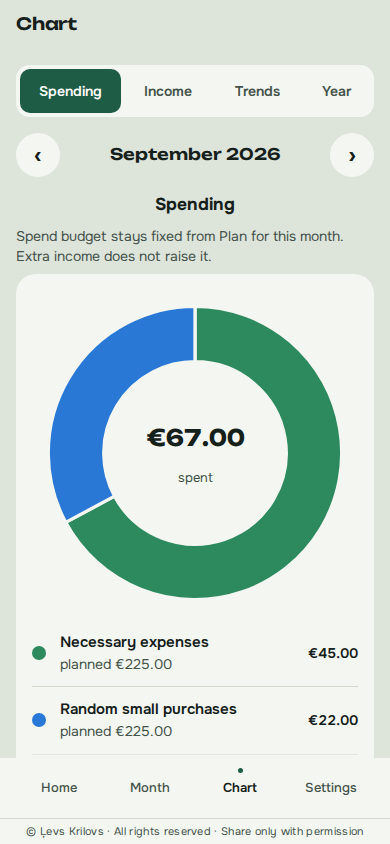
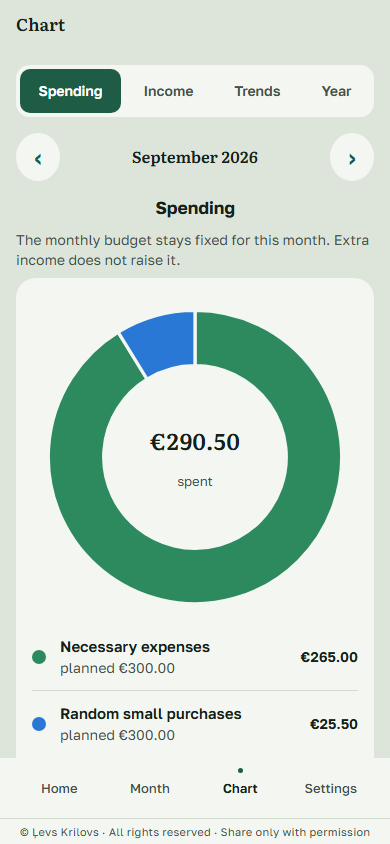
C-013: Retake the user guide screenshots of version 3.0

diff --git a/scripts/capture_guide_screens.js b/scripts/capture_guide_screens.js
@@ -2,131 +2,85 @@ import { chromium } from 'playwright';
 import { mkdirSync } from 'node:fs';
 import { dirname, join } from 'node:path';
 import { fileURLToPath } from 'node:url';
+import { defaultData, SCHEMA_VERSION } from '../src/model.js';
 
 const root = join(dirname(fileURLToPath(import.meta.url)), '..');
 const out = join(root, 'docs', 'guide-assets');
 mkdirSync(out, { recursive: true });
 
 const key = 'my-expenses-v1';
-const data = {
-    version: 2,
-    settings: {
-        userName: 'Alex',
-        monthlyBudgetCents: 100000,
-        usualMonthlyIncomeCents: 200000,
-        setupComplete: true,
-        lastBackupISO: null,
-        othersSeeded: true,
-    },
-    categories: [
-        {
-            id: 'necessary',
-            name: 'Necessary expenses',
-            pinned: false,
-            percent: 0,
-            limitMode: 'percent',
-            limitCents: 0,
-            system: false,
-            subcategories: [
-                { id: 'rent', name: 'Rent/mortgage' },
-                { id: 'groceries', name: 'Groceries' },
-            ],
-        },
-        {
-            id: 'subscriptions',
-            name: 'Subscriptions',
-            pinned: false,
-            percent: 0,
-            limitMode: 'percent',
-            limitCents: 0,
-            system: false,
-            subcategories: [],
-        },
-        {
-            id: 'random',
-            name: 'Random small purchases',
-            pinned: false,
-            percent: 0,
-            limitMode: 'percent',
-            limitCents: 0,
-            system: false,
-            subcategories: [{ id: 'shopping', name: 'Shopping' }],
-        },
-        {
-            id: 'savings',
-            name: 'Savings',
-            pinned: true,
-            percent: 10,
-            limitMode: 'percent',
-            limitCents: 10000,
-            system: false,
-            subcategories: [],
-        },
-        {
-            id: 'others',
-            name: 'Others',
-            pinned: false,
-            percent: 0,
-            limitMode: 'percent',
-            limitCents: 0,
-            system: false,
-            subcategories: [],
-        },
-        {
-            id: 'uncategorised',
-            name: 'Uncategorised',
-            pinned: true,
-            percent: 0,
-            system: true,
-            subcategories: [],
-        },
-    ],
-    incomeCategories: [
-        { id: 'salary', name: 'Salary' },
-        { id: 'income-other', name: 'Other' },
-    ],
-    expenses: [
-        {
-            id: 'e1',
-            categoryId: 'necessary',
-            subcategoryId: 'groceries',
-            amountCents: 4500,
-            note: 'Market',
-            date: '2026-09-02',
-        },
-        {
-            id: 'e2',
-            categoryId: 'random',
-            subcategoryId: 'shopping',
-            amountCents: 2200,
-            note: 'Soap',
-            date: '2026-09-03',
-        },
-    ],
-    incomes: [
-        {
-            id: 'i1',
-            incomeCategoryId: 'salary',
-            amountCents: 50000,
-            note: '',
-            date: '2026-09-01',
-        },
-    ],
-    subscriptions: [{ id: 's1', name: 'Streaming', amountCents: 999, dayOfMonth: 28 }],
-    monthPlans: {},
-};
+const preUpdateKey = `my-expenses-before-v${SCHEMA_VERSION}`;
+const NOW = new Date('2026-09-24T12:00:00Z');
+
+function expense(id, categoryId, subcategoryId, amountCents, note, date, extra = {}) {
+    return {
+        id, categoryId, subcategoryId, amountCents, note, date,
+        currency: 'EUR', originalAmountCents: amountCents, refund: false,
+        importId: '', bankRef: '', fingerprint: '', goalId: '', ...extra,
+    };
+}
+
+function income(id, incomeCategoryId, amountCents, note, date) {
+    return {
+        id, incomeCategoryId, amountCents, note, date,
+        currency: 'EUR', originalAmountCents: amountCents,
+        importId: '', bankRef: '', fingerprint: '', sourceId: '',
+    };
+}
+
+// Sample data: the clock is fixed at 24 Sep 2026, Money now starts at 200.00 on 1 Sep.
+const data = defaultData();
+Object.assign(data.settings, {
+    userName: 'Alex',
+    monthlyBudgetCents: 100000,
+    usualMonthlyIncomeCents: 200000,
+    setupComplete: true,
+    lastBackupISO: '2026-09-20',
+    balanceStart: { cents: 20000, date: '2026-09-01' },
+});
+const savings = data.categories.find((category) => category.id === 'savings');
+Object.assign(savings, { pinned: true, percent: 10, limitMode: 'percent', limitCents: 10000 });
+
+data.expenses.push(
+    expense('e1', 'necessary', 'groceries', 4500, 'Market', '2026-09-02'),
+    expense('e2', 'random', 'shopping', 2200, 'Soap', '2026-09-03'),
+    expense('e3', 'necessary', 'rent', 22000, 'Rent', '2026-09-05'),
+    expense('e4', 'random', 'eating-out', 1850, 'Lunch', '2026-09-12'),
+    expense('e5', 'random', 'shopping', 1500, 'Returned shoes', '2026-09-14', { refund: true }),
+);
+// Salary has no September income tied to it, so its payday reminder is due on the 24th.
+data.incomeSources.push(
+    { id: 'src1', name: 'Salary', incomeCategoryId: 'salary', expectedCents: 200000, dayOfMonth: 20, startDate: '', skippedMonths: [] },
+    { id: 'src2', name: 'Side job', incomeCategoryId: 'salary', expectedCents: 30000, dayOfMonth: 28, startDate: '', skippedMonths: [] },
+);
+data.incomes.push(
+    income('i1', 'income-other', 5000, 'Gift', '2026-09-08'),
+    income('i2', 'income-other', 30000, 'Freelance', '2026-09-10'),
+);
+data.subscriptions.push({ id: 's1', name: 'Streaming', amountCents: 999, dayOfMonth: 28, skippedMonths: [] });
 
 // Earlier months, a template and a goal so Trends, Quick add and Goals have content.
 for (let back = 1; back <= 6; back += 1) {
     const month = String(9 - back).padStart(2, '0');
     data.expenses.push(
-        { id: `h${back}a`, categoryId: 'necessary', subcategoryId: 'groceries', amountCents: 18000 + back * 1700, note: 'Groceries', date: `2026-${month}-10` },
-        { id: `h${back}b`, categoryId: 'random', subcategoryId: 'eating-out', amountCents: 4200 + back * 900, note: 'Cafe', date: `2026-${month}-18` },
+        expense(`h${back}a`, 'necessary', 'groceries', 18000 + back * 1700, 'Groceries', `2026-${month}-10`),
+        expense(`h${back}b`, 'random', 'eating-out', 4200 + back * 900, 'Cafe', `2026-${month}-18`),
     );
+    data.incomes.push(income(`hi${back}`, 'salary', 200000, '', `2026-${month}-25`));
 }
 data.templates = [{ id: 't1', name: 'Coffee', categoryId: 'random', subcategoryId: 'eating-out', amountCents: 320, note: 'Coffee' }];
 data.goals = [{ id: 'g1', name: 'Summer trip', targetCents: 150000, deadline: '2027-06-01', createdAt: '2026-09-01', closedAt: '' }];
-data.settings.lastBackupISO = '2026-09-20';
+
+// A copy saved before the 3.0 update, so Settings shows the Restore button.
+const preUpdateCopy = { ...structuredClone(data), version: 2 };
+
+const firstRun = structuredClone(data);
+firstRun.settings.setupComplete = false;
+firstRun.settings.balanceStart = null;
+
+const moneyOnly = structuredClone(data);
+Object.assign(moneyOnly, { incomeSources: [], incomes: [], expenses: [], subscriptions: [] });
+moneyOnly.settings.balanceStart = null;
 
 const SAMPLE_STATEMENT = [
     'Konta izraksts;;;;',
@@ -136,81 +90,90 @@ const SAMPLE_STATEMENT = [
     '07.09.2026;RIMI MINI;Pirkums 5678;12,80;D',
 ].join('\n');
 
-async function dismissOverlays(page) {
+const browser = await chromium.launch();
+const page = await browser.newPage({
+    viewport: { width: 390, height: 844 },
+    serviceWorkers: 'block',
+    timezoneId: 'UTC',
+    locale: 'en-GB',
+});
+await page.clock.setFixedTime(NOW);
+await page.goto('http://localhost:8080/', { waitUntil: 'networkidle' });
+
+async function load(payload, preUpdate = null) {
+    await page.evaluate(([storageKey, value, copyKey, copy]) => {
+        localStorage.clear();
+        localStorage.setItem(storageKey, JSON.stringify(value));
+        if (copy) {
+            localStorage.setItem(copyKey, JSON.stringify(copy));
+        }
+    }, [key, payload, preUpdateKey, preUpdate]);
+    await page.reload({ waitUntil: 'networkidle' });
+}
+
+async function shot(name) {
+    await page.waitForTimeout(500);
     await page.evaluate(() => {
         document.getElementById('due-subscription-overlay')?.remove();
     });
+    await page.screenshot({ path: join(out, `${name}.png`) });
 }
 
-const browser = await chromium.launch();
-const page = await browser.newPage({ viewport: { width: 390, height: 844 } });
-await page.goto('http://localhost:8080/', { waitUntil: 'networkidle' });
-await page.evaluate(([storageKey, payload]) => {
-    localStorage.setItem(storageKey, JSON.stringify(payload));
-}, [key, data]);
+await load(firstRun);
+await shot('screen-setup');
 
-async function shot(name, mutate) {
-    if (mutate) {
-        await page.evaluate(([storageKey, fnName]) => {
-            const raw = JSON.parse(localStorage.getItem(storageKey));
-            if (fnName === 'setup') {
-                raw.settings.setupComplete = false;
-            }
-            if (fnName === 'ready') {
-                raw.settings.setupComplete = true;
-            }
-            localStorage.setItem(storageKey, JSON.stringify(raw));
-        }, [key, mutate]);
-        await page.reload({ waitUntil: 'networkidle' });
-    }
-    await dismissOverlays(page);
-    await page.screenshot({ path: join(out, name) });
-}
+await load(moneyOnly);
+await page.fill('#money-setup-money', '200.00');
+await page.fill('#money-setup-day-0', '20');
+await shot('screen-money-setup');
 
-await shot('screen-setup.png', 'setup');
-await shot('screen-home.png', 'ready');
+await load(data, preUpdateCopy);
+await shot('screen-home');
+
+await page.click('#home-money-figure');
+await page.fill('#home-money-amount', '232.50');
+await shot('screen-bank-check');
+await page.keyboard.press('Escape');
 
 await page.getByRole('button', { name: 'Add expense' }).click();
-await page.waitForTimeout(300);
-await dismissOverlays(page);
-await page.screenshot({ path: join(out, 'screen-expense.png') });
+await shot('screen-expense');
 
 await page.getByRole('button', { name: 'Back to Home' }).click();
-await page.waitForTimeout(200);
+await page.waitForTimeout(500);
 await page.getByRole('button', { name: 'Add income' }).click();
-await page.waitForTimeout(300);
-await dismissOverlays(page);
-await page.screenshot({ path: join(out, 'screen-income.png') });
+await shot('screen-income');
 
 await page.click('[data-tab="month"]');
-await page.waitForTimeout(400);
-await dismissOverlays(page);
-await page.screenshot({ path: join(out, 'screen-month.png') });
+await shot('screen-month');
 
 await page.click('[data-tab="chart"]');
-await page.waitForTimeout(400);
-await dismissOverlays(page);
-await page.screenshot({ path: join(out, 'screen-chart.png') });
+await shot('screen-chart');
 
 await page.getByRole('button', { name: 'Trends', exact: true }).click();
-await page.waitForTimeout(400);
-await page.screenshot({ path: join(out, 'screen-trends.png') });
+await shot('screen-trends');
 await page.getByRole('button', { name: 'Spending', exact: true }).click();
 
 await page.click('[data-tab="more"]');
-await page.waitForTimeout(500);
-await dismissOverlays(page);
-await page.screenshot({ path: join(out, 'screen-settings.png') });
+await shot('screen-settings');
 
+await page.click('#settings-row-income');
+await shot('screen-settings-income');
+
+await page.click('#settings-row-backup');
+await shot('screen-settings-backup');
+
+await page.click('#settings-row-advanced');
+await page.waitForTimeout(500);
 await page.getByRole('button', { name: 'Import a bank statement' }).click();
-await page.waitForTimeout(300);
+await page.waitForTimeout(500);
 await page.setInputFiles('input[type=file]', {
     name: 'statement.csv',
     mimeType: 'text/csv',
     buffer: Buffer.from(SAMPLE_STATEMENT, 'utf8'),
 });
-await page.waitForTimeout(500);
-await page.screenshot({ path: join(out, 'screen-import.png') });
+await page.selectOption('#imp-date-format', 'DMY');
+await page.getByText('Check what was read').scrollIntoViewIfNeeded();
+await shot('screen-import');
 
 await browser.close();
 console.log('screenshots written to', out);
